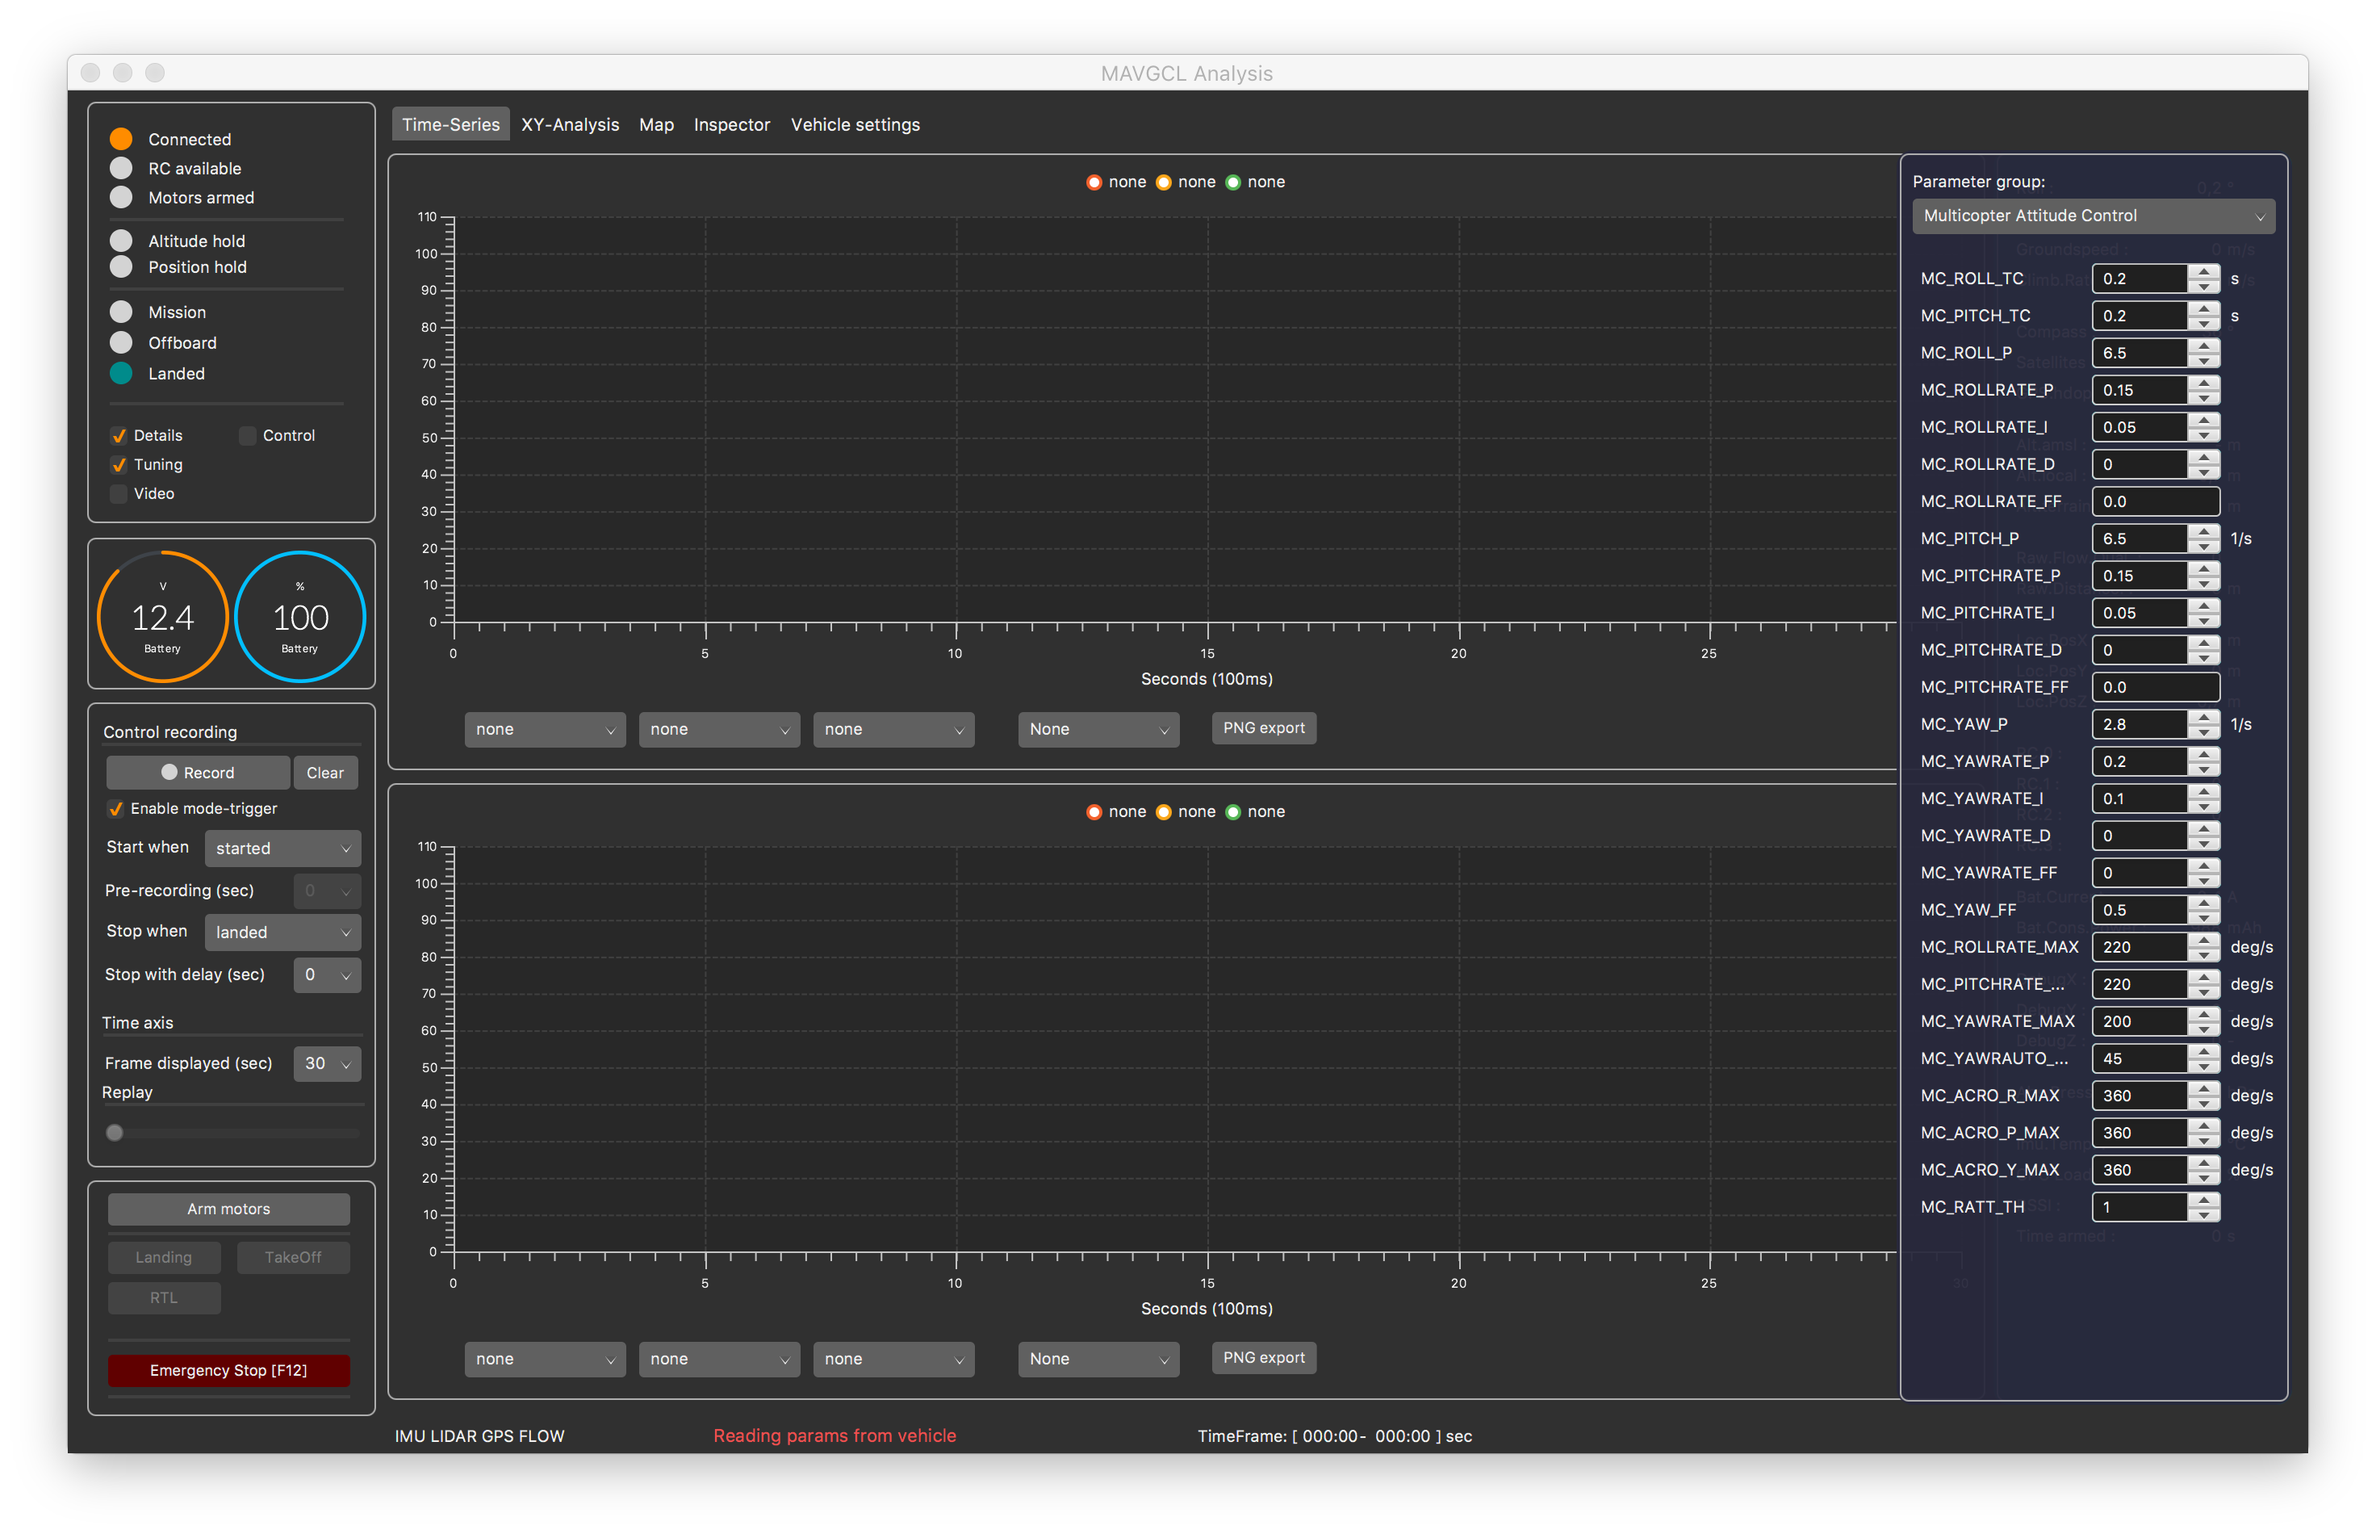
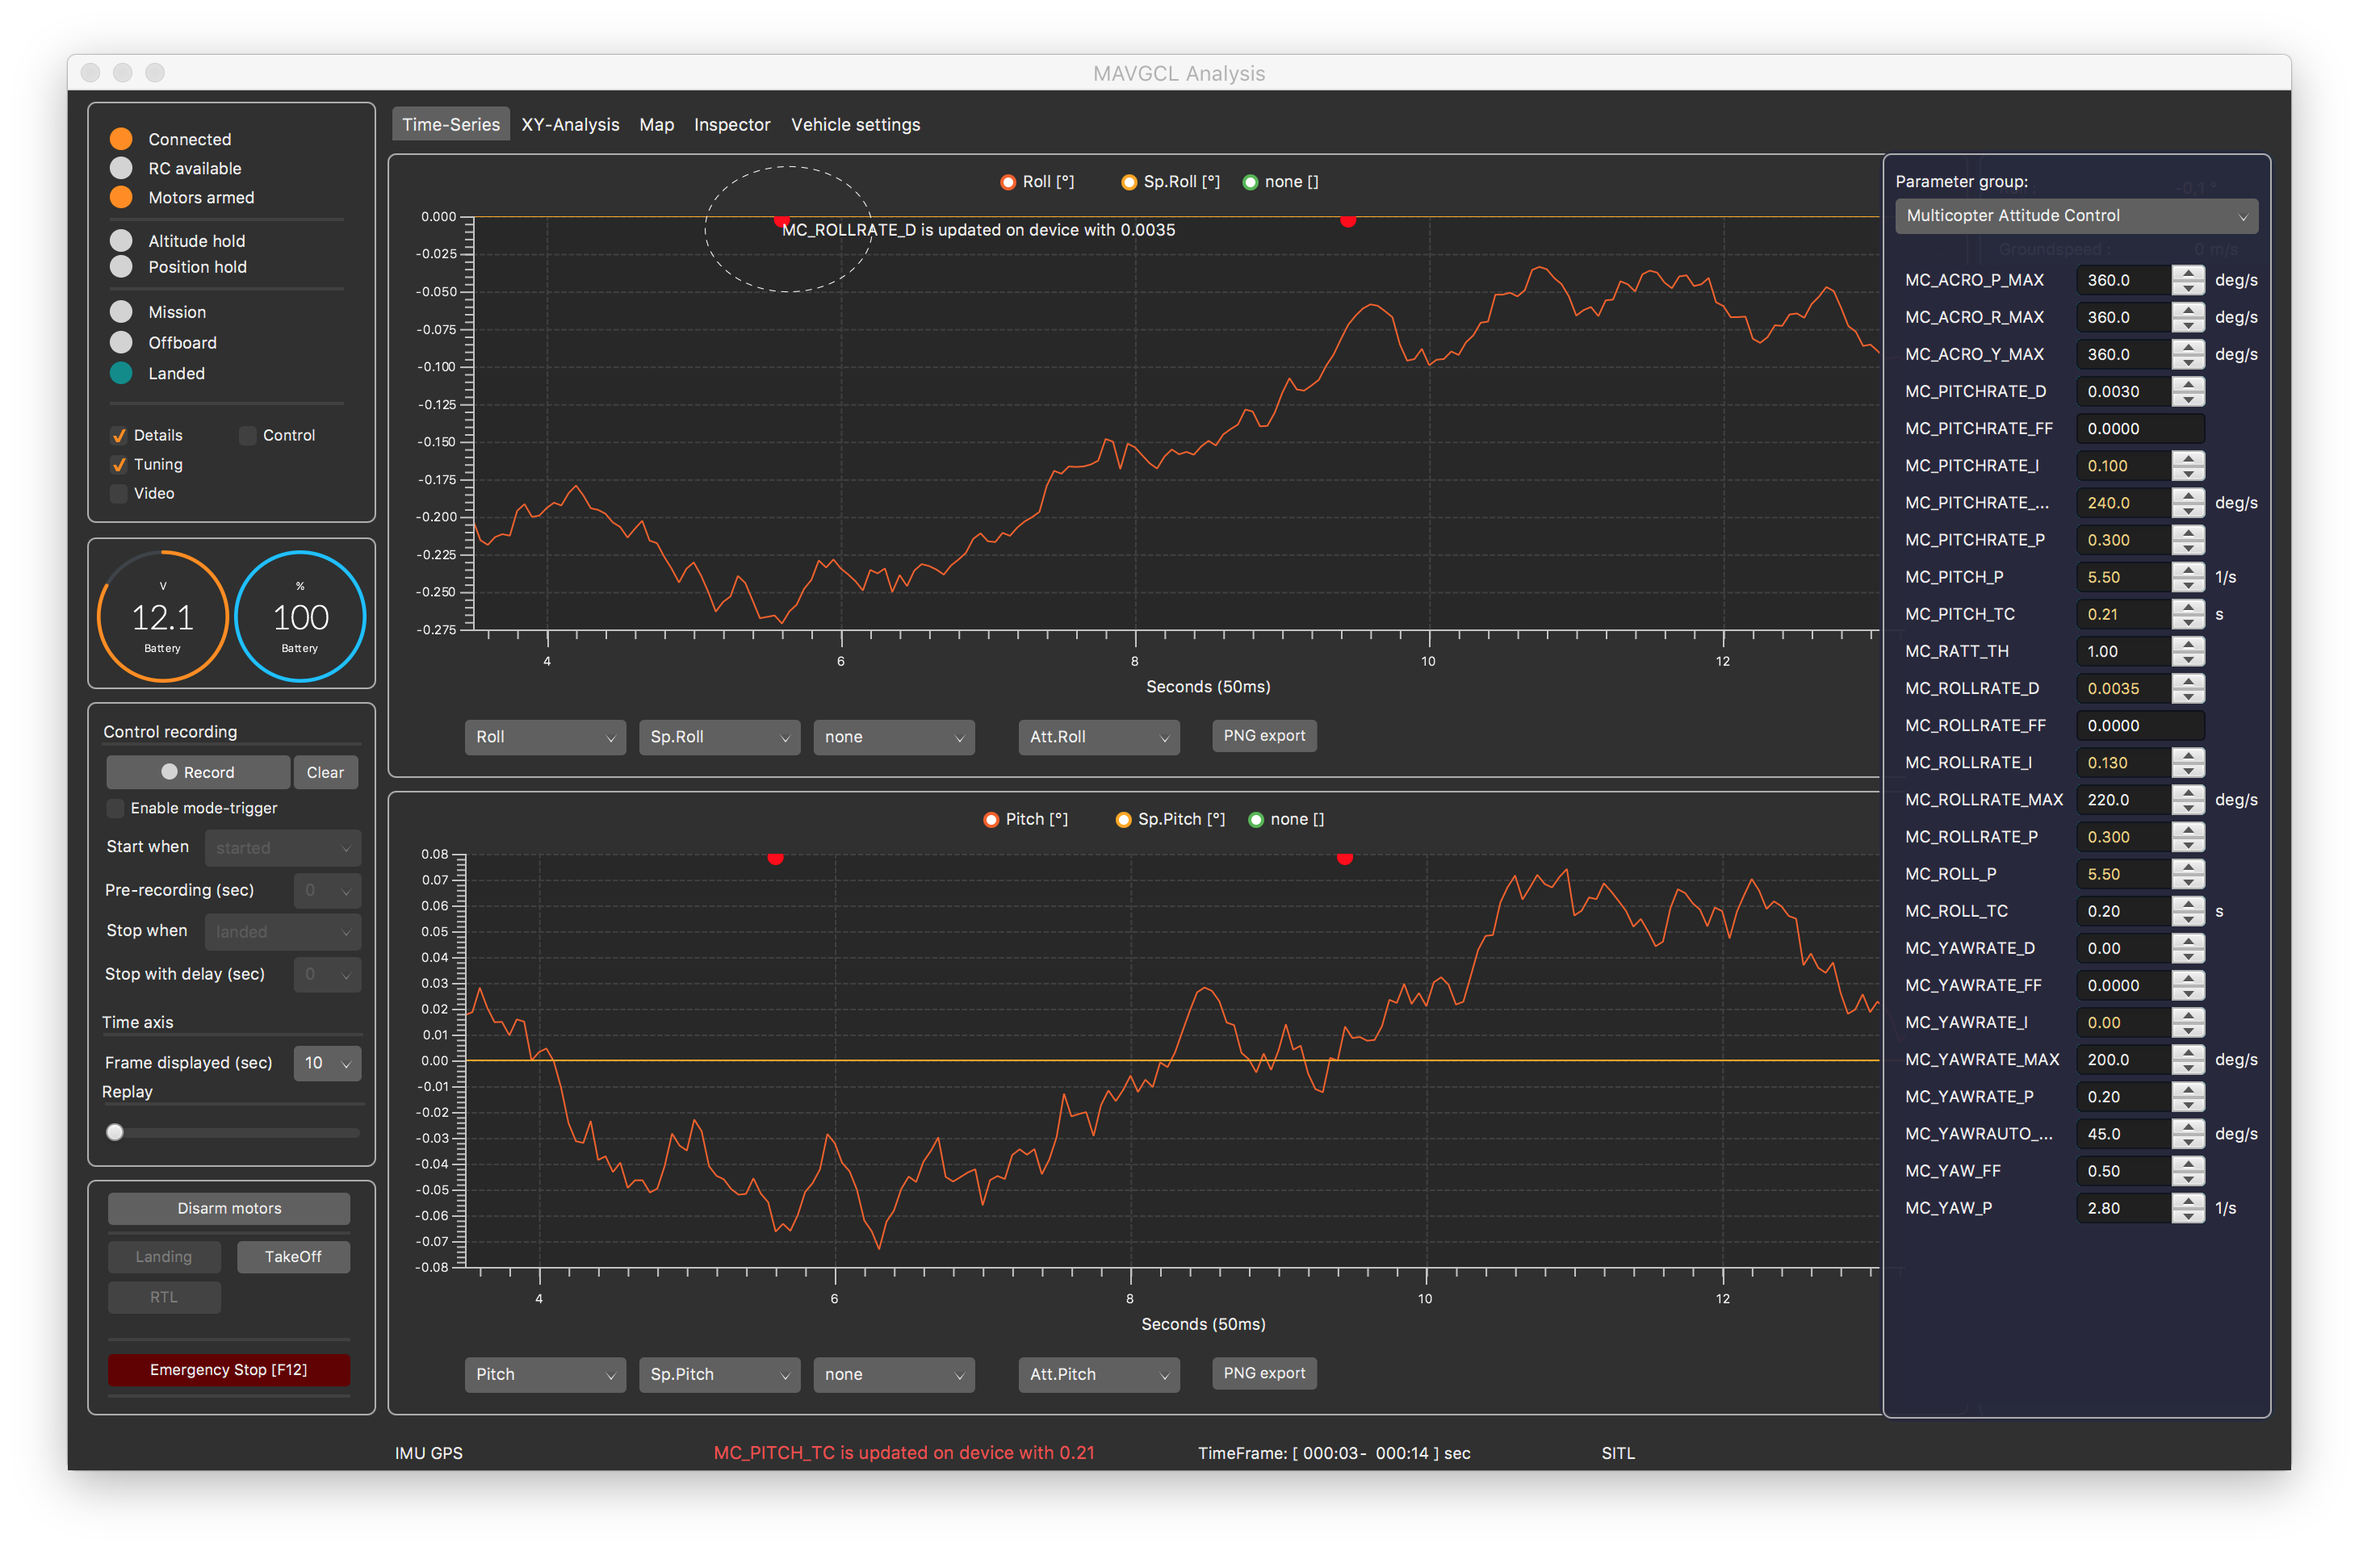
Screenshot, Readme update

diff --git a/README.md b/README.md
@@ -8,9 +8,9 @@ This JavaFx based tool enables PX4 Users to record and analyse data published vi
 
 Any feedback, comments and contributions are very welcome.
 
-**Status:** Last updated 19/06/2016 
+**Status:** Last updated 20/06/2016 
 
-- Tuning widget added
+- Timechart annotated by messages (10 sec frame only)
 
 **Features:**
 
